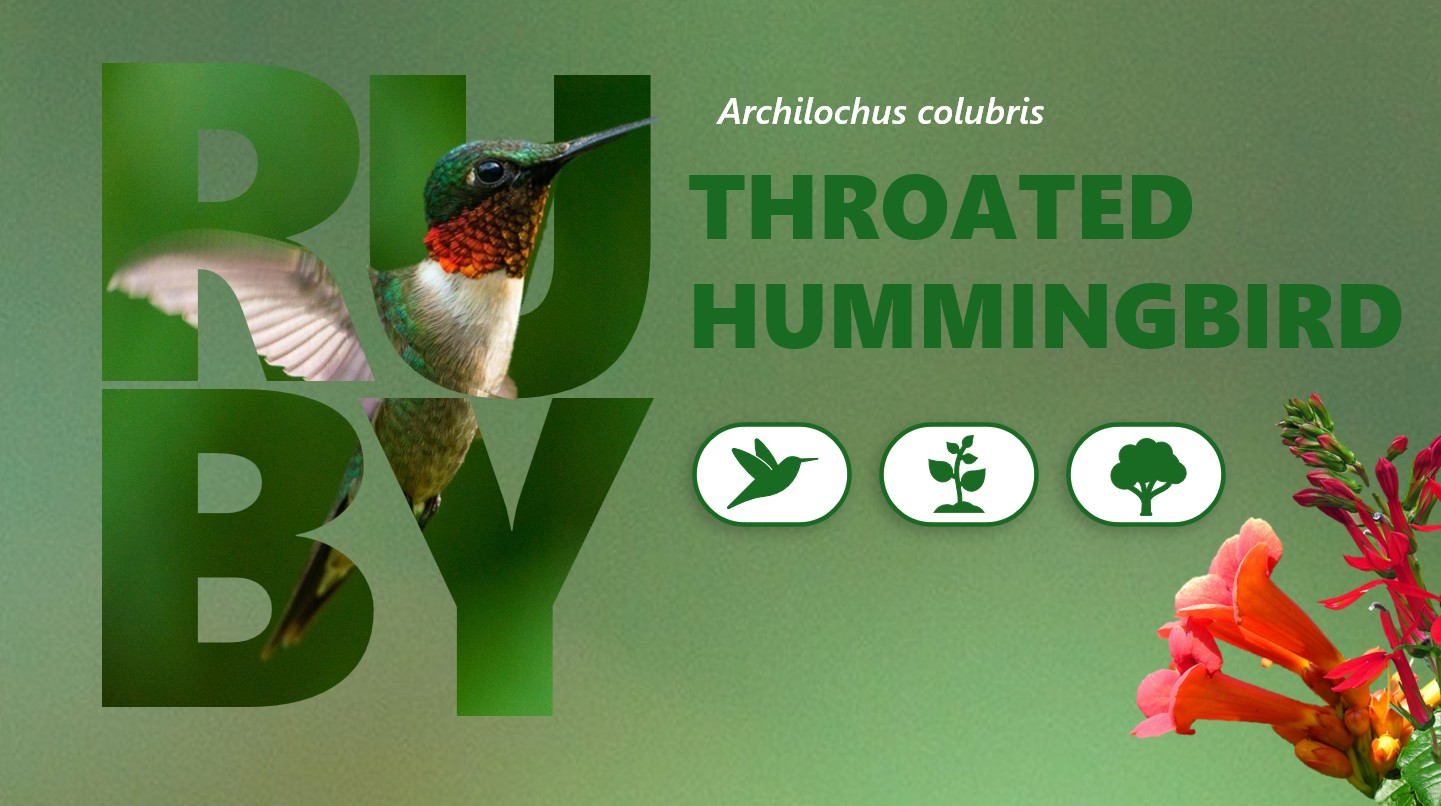
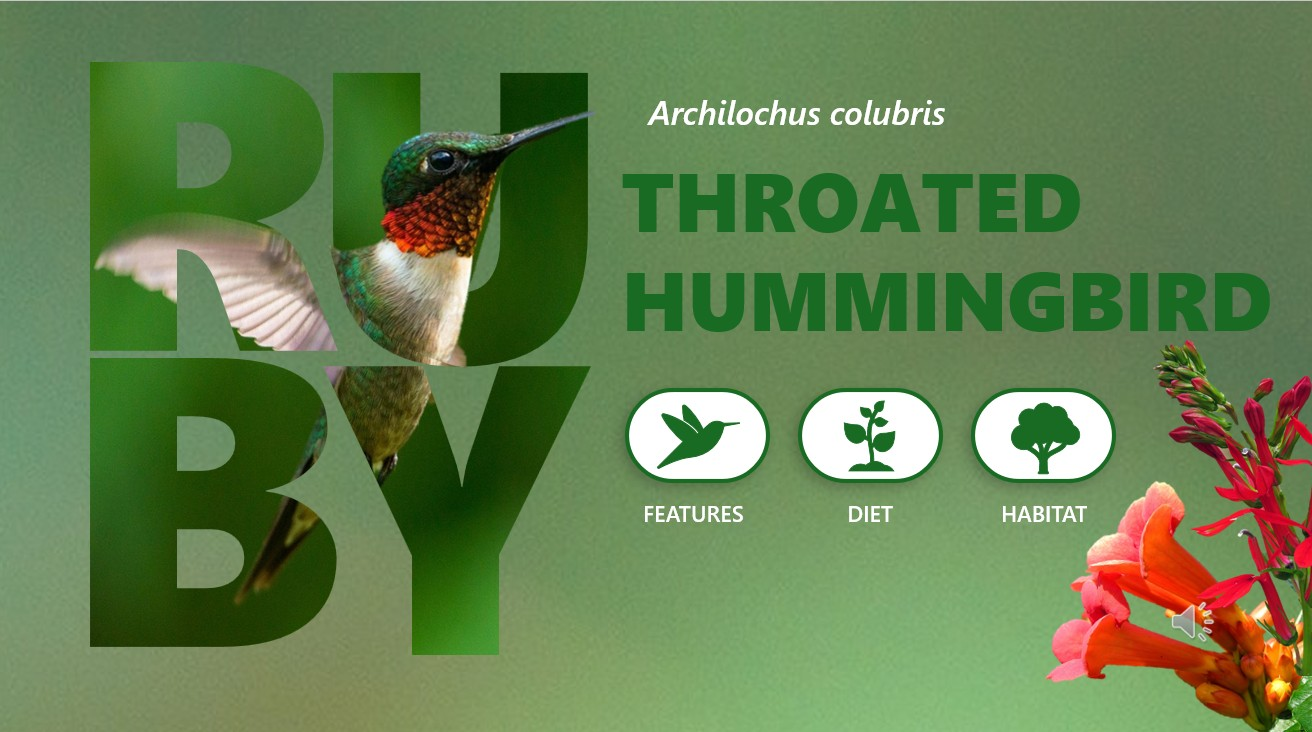
updated ruby throated hummingbird

diff --git a/visuals.html b/visuals.html
@@ -176,7 +176,7 @@
                      
                     <div class="section">
                         <div class="image-container">
-                            <a href="https://drive.google.com/file/d/1IAbPjS7LY4VjzhdB4a_9IvmYn8ZJ2GE1/view?usp=sharing" target="_blank" rel="noopener noreferrer">
+                            <a href="https://drive.google.com/file/d/1ut0xL2miK1M9Wazl8M59AX8AB-mTOAGH/view?usp=sharing" target="_blank" rel="noopener noreferrer">
                                 <img src="images/ruby_throated_hummingbird.jpg" alt="RUBY-THROATED HUMMINGBIRD"
                                     style="cursor:pointer;" />
                             </a>
@@ -189,7 +189,7 @@
                                 </strong>
                             </h3>
                             <p>
-                                All about the Ruby-Throated Hummingbird. Data-driven animations & fun facts 
+                                All about the Ruby-Throated Hummingbird. Stats, data-driven animations, & fun facts 
                                 on one of my favorite birds. 
                             </p>
                         </div>
